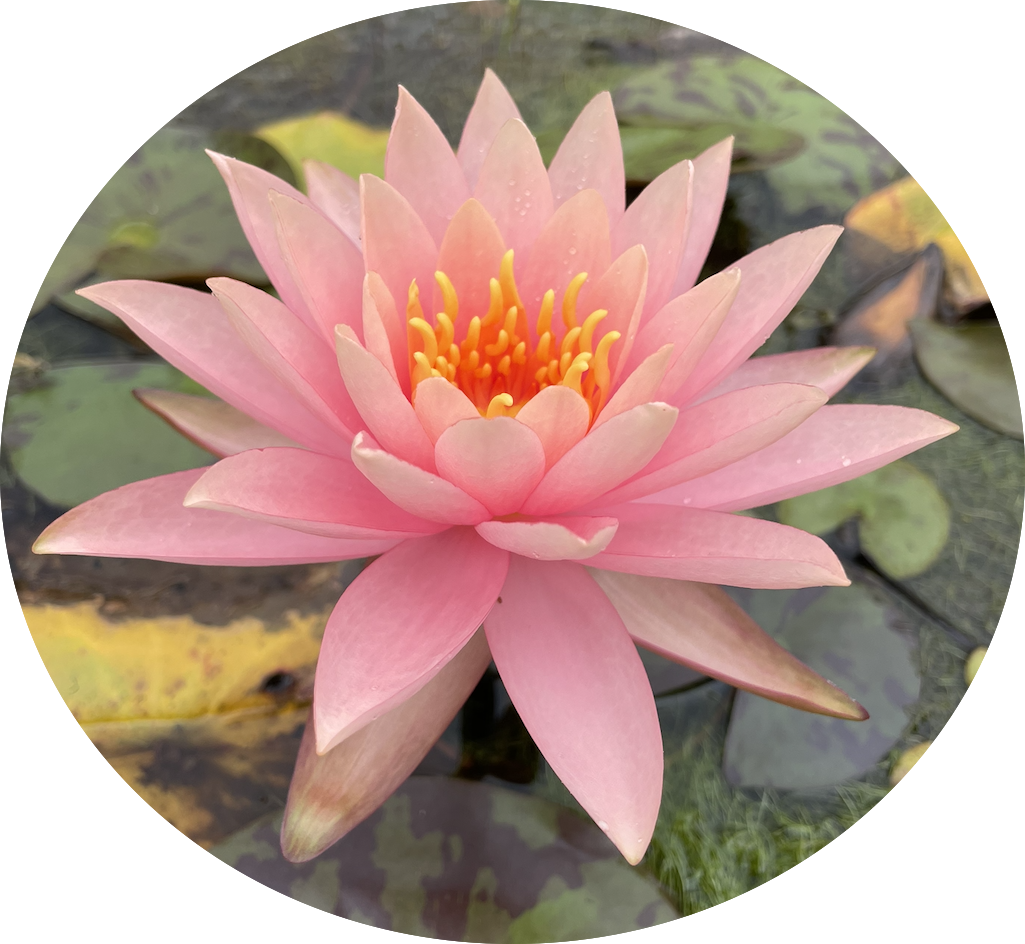
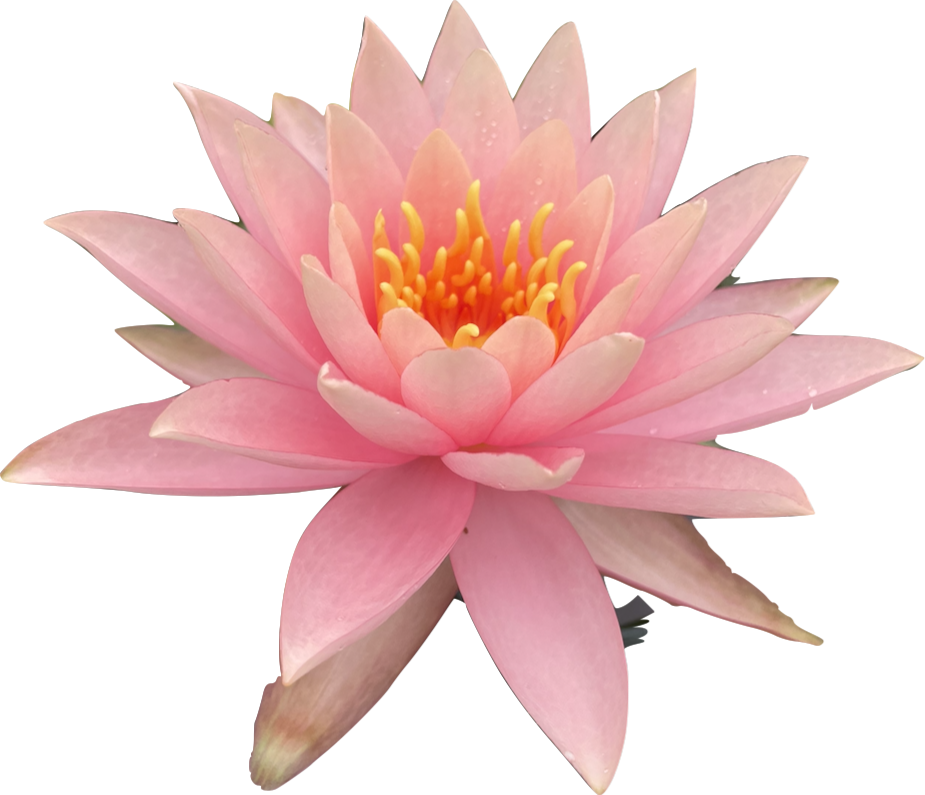
Change description, add shadow

diff --git a/src/components/sketches/RizomaSketch.tsx b/src/components/sketches/RizomaSketch.tsx
@@ -35,7 +35,7 @@ export function RizomaSketch({ onRestart }: RizomaSketchProps) {
 
             let vx: number, vy: number;
 
-            const IMG_SIZE = 50;
+            const IMG_SIZE = 40;
             const SPEED = 1.5;
             const STEP_DISTANCE = IMG_SIZE / 2; // distancia entre imágenes = ancho/2
 
@@ -82,9 +82,7 @@ export function RizomaSketch({ onRestart }: RizomaSketchProps) {
                     y += vy * SPEED;
                     distanceSinceLastStamp += SPEED;
 
-                    // Rebotar en bordes girando 90°
                     const margin = IMG_SIZE;
-                    let bounced = false;
 
                     if (x < margin) {
                         x = margin;
@@ -121,6 +119,9 @@ export function RizomaSketch({ onRestart }: RizomaSketchProps) {
                 // Dibujar todas las imágenes del rastro
                 if (img) {
                     for (const point of trail) {
+                        p.drawingContext.shadowBlur = 40; // Tamaño o radio del resplandor
+                        p.drawingContext.shadowColor = p.color(255, 255, 255);
+
                         p.image(img, point.x - IMG_SIZE / 2, point.y - IMG_SIZE / 2, IMG_SIZE, IMG_SIZE);
                     }
                 }

diff --git a/src/app/rizoma-visual/page.tsx b/src/app/rizoma-visual/page.tsx
@@ -20,7 +20,7 @@ export default function RizomaVisualPage() {
                         Arte generativo — 2026
                     </p>
                     <h1 className="font-display font-light text-4xl md:text-5xl text-ink">
-                        Rizoma visual
+                        Luz en el camino
                     </h1>
                 </div>
 
@@ -38,7 +38,7 @@ export default function RizomaVisualPage() {
                             Descripción
                         </p>
                         <p className="font-body text-ink-muted leading-relaxed">
-                            Rizoma visual creado con p5.js, donde cada imagen es una representación unica creada cada vez que se recarga la página.
+                            Seamos luz en el camino, incluso en medio del lodo.
                         </p>
                     </div>
                     </div>